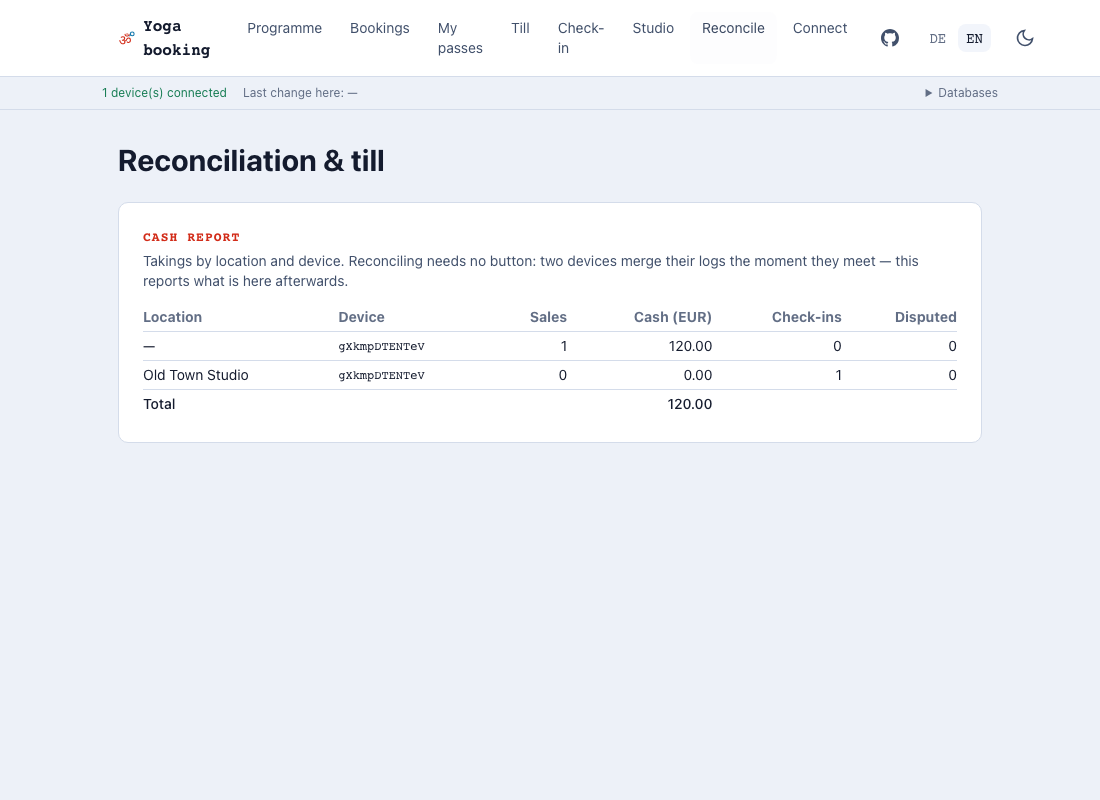
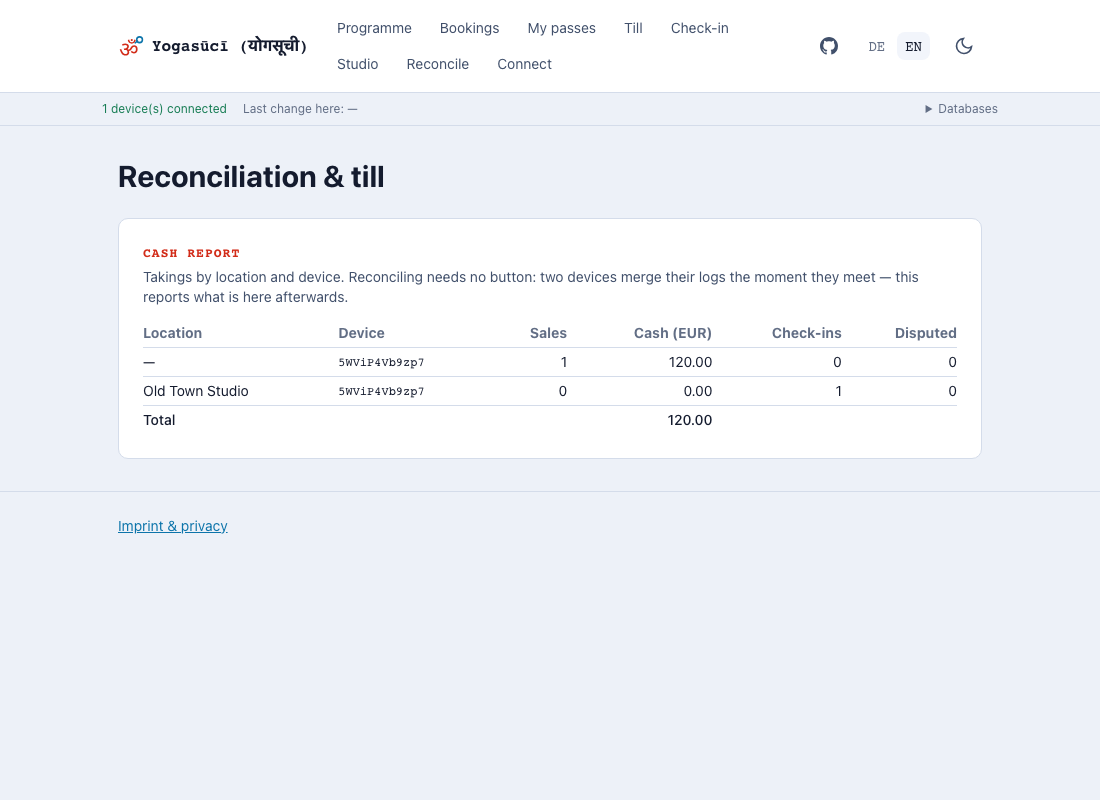
Rename the product to Yogasūcī (योगसूची)
The name people see, everywhere they see it: the app shell, the page title and its
social metadata, the installed app's name, the handbook and its site, the generated
OG image. `yogasuci` without diacritics in technical names, because a name carrying
them through a URL or a command line gets mis-encoded somewhere nobody looks.

The handbook explains it, in both languages: सूची (sūcī) is a needle first and from
there a list, register, index — which is what this app is. The double meaning fits
better than it had to. A needle points at something, and a pass here points at every
entry its balance is counted from; nothing is stored, everything is recounted.

**A large set of identifiers deliberately keeps `yoga-`, and that is the important
part of this change.** Database names (`yoga-tickets-<did>`, `yoga-acl-<did>`,
`yoga-registry`, `yoga-bookings-<did>`), the IndexedDB stores, the localStorage
keys, the export format tag and `window.__yoga` all stay. A ledger's address is
derived from its name — renaming it is not a rename, it is a different database, and
every studio's cash record with it. Renaming the rest would log every device out and
lose its remembered addresses. Written up as LIMITS §1.10 rather than left as
apparently-missed occurrences, with the note that now is the only cheap moment to
change them and that "never" is a defensible answer, because nobody outside
development ever sees them.
[…]

diff --git a/src/app.html b/src/app.html
@@ -54,7 +54,7 @@
 			docs/LIMITS.md: every route serves the same title and canonical, which is
 			why robots.txt keeps the crawler on the landing page.
 		-->
-		<title>Yoga-Buchung — Kursbuchung ohne Server und ohne Konto</title>
+		<title>Yogasūcī (योगसूची) — Kursbuchung ohne Server und ohne Konto</title>
 		<meta
 			name="description"
 			content="Local-first Kursbuchung für Yogastudios: Programm, Karten und Check-in laufen direkt zwischen den Geräten — ohne Server, ohne Konto. Gebaut mit libp2p, OrbitDB und Passkeys."
@@ -64,11 +64,14 @@
 		<meta name="author" content="Le-Space" />
 
 		<meta property="og:type" content="website" />
-		<meta property="og:site_name" content="Yoga-Buchung" />
+		<meta property="og:site_name" content="Yogasūcī (योगसूची)" />
 		<meta property="og:locale" content="de_DE" />
 		<meta property="og:locale:alternate" content="en_GB" />
 		<meta property="og:url" content="https://yoga.le-space.de/" />
-		<meta property="og:title" content="Yoga-Buchung — Kursbuchung ohne Server und ohne Konto" />
+		<meta
+			property="og:title"
+			content="Yogasūcī (योगसूची) — Kursbuchung ohne Server und ohne Konto"
+		/>
 		<meta
 			property="og:description"
 			content="Kurse, Karten und Check-in laufen direkt zwischen den Geräten. Kein Server, kein Relay, kein Konto."
@@ -79,19 +82,22 @@
 		<meta property="og:image:height" content="630" />
 		<meta
 			property="og:image:alt"
-			content="Yoga-Buchung — local-first Peer-to-Peer-Kursbuchung von Le-Space"
+			content="Yogasūcī (योगसूची) — local-first Peer-to-Peer-Kursbuchung von Le-Space"
 		/>
 
 		<meta name="twitter:card" content="summary_large_image" />
-		<meta name="twitter:title" content="Yoga-Buchung — Kursbuchung ohne Server und ohne Konto" />
+		<meta
+			name="twitter:title"
+			content="Yogasūcī (योगसूची) — Kursbuchung ohne Server und ohne Konto"
+		/>
 		<meta
 			name="twitter:description"
 			content="Kurse, Karten und Check-in laufen direkt zwischen den Geräten. Kein Server, kein Relay, kein Konto."
 		/>
 		<meta name="twitter:image" content="https://yoga.le-space.de/og-image.png" />
 
-		<meta name="application-name" content="Yoga-Buchung" />
-		<meta name="apple-mobile-web-app-title" content="Yoga-Buchung" />
+		<meta name="application-name" content="Yogasūcī (योगसूची)" />
+		<meta name="apple-mobile-web-app-title" content="Yogasūcī (योगसूची)" />
 		<meta name="mobile-web-app-capable" content="yes" />
 		<meta name="apple-mobile-web-app-capable" content="yes" />
 		<meta name="apple-mobile-web-app-status-bar-style" content="black-translucent" />

diff --git a/e2e/m0-shell.spec.js b/e2e/m0-shell.spec.js
@@ -107,16 +107,21 @@ test.describe('app shell', () => {
 	// the context rather than assumed. Both directions are checked: a German
 	// browser must not land in English, and an English one must not land in
 	// German just because the studio is German.
+	//
+	// Probed on a navigation label rather than on the app's name. The name used to
+	// serve as the probe and stopped working the moment it became a proper noun —
+	// Yogasūcī is the same word in both languages, so asserting on it proved
+	// nothing at all. A label that genuinely differs is what this test always meant.
 	for (const { locale, expected } of [
-		{ locale: 'de-DE', expected: 'Yoga-Buchung' },
-		{ locale: 'en-GB', expected: 'Yoga booking' }
+		{ locale: 'de-DE', expected: 'Programm' },
+		{ locale: 'en-GB', expected: 'Programme' }
 	]) {
 		test(`follows the browser language ${locale}`, async ({ browser }) => {
 			const context = await browser.newContext({ locale });
 			const page = await context.newPage();
 			await page.goto('/');
 
-			await expect(page.getByTestId('app-name')).toHaveText(expected);
+			await expect(page.getByTestId('nav-program')).toHaveText(expected);
 			await context.close();
 		});
 	}
@@ -126,14 +131,18 @@ test.describe('app shell', () => {
 		const page = await context.newPage();
 
 		await page.goto('/');
-		await expect(page.getByTestId('app-name')).toHaveText('Yoga-Buchung');
+		await expect(page.getByTestId('nav-program')).toHaveText('Programm');
 
 		await page.getByTestId('language-en').click();
-		await expect(page.getByTestId('app-name')).toHaveText('Yoga booking');
+		await expect(page.getByTestId('nav-program')).toHaveText('Programme');
 
 		// An explicit choice must outrank the browser preference, not be reset by it.
 		await page.reload();
-		await expect(page.getByTestId('app-name')).toHaveText('Yoga booking');
+		await expect(page.getByTestId('nav-program')).toHaveText('Programme');
+
+		// And the name is a name: the same in both, which is why it is no longer the
+		// thing this test asks about.
+		await expect(page.getByTestId('app-name')).toContainText('Yogasūcī');
 
 		await context.close();
 	});

diff --git a/docs/LIMITS.md b/docs/LIMITS.md
@@ -469,6 +469,27 @@ Nach upstream noch nicht gemeldet — verwandt mit
 [orbitdb/orbitdb#1255](https://github.com/orbitdb/orbitdb/issues/1255), siehe
 Issue #13 in diesem Repo.
 
+### 1.10 Der Produktname ist umbenannt, die Bezeichner sind es nicht
+
+Sichtbar heißt die App **Yogasūcī (योगसूची)**, technisch `yogasuci`. Eine Reihe von
+Bezeichnern trägt aber weiterhin `yoga-p2p` bzw. `yoga-`, und das ist **Absicht**,
+kein vergessenes Vorkommen:
+
+| Bezeichner                                                                      | Warum er bleibt                                                                                                                  |
+| ------------------------------------------------------------------------------- | -------------------------------------------------------------------------------------------------------------------------------- |
+| `yoga-tickets-<did>`, `yoga-acl-<did>`, `yoga-registry`, `yoga-bookings-<did>`  | **Datenbanknamen.** Die Adresse eines Ledgers wird aus dem Namen abgeleitet (§1.7) — ein anderer Name ist eine andere Datenbank. |
+| `yoga-p2p/blocks`, `yoga-p2p/data`                                              | IndexedDB-Stores. Umbenennen heißt: jedes Gerät startet leer.                                                                    |
+| `yoga-p2p.databases`, `.passkeyCredential`, `.iceMode`, `.installHintDismissed` | localStorage-Schlüssel. Umbenennen heißt: gemerkte Adressen weg, Identität scheinbar verloren.                                   |
+| `yoga-p2p/export/1`                                                             | Format-Kennung im Export. Ältere Sicherungen müssen lesbar bleiben.                                                              |
+| `window.__yoga`                                                                 | Diagnose-Oberfläche, an der die gesamte E2E-Suite hängt.                                                                         |
+
+Ein Umbenennen dieser Namen ist **keine Umbenennung, sondern eine Datenmigration**:
+alte Namen weiter öffnen, Inhalte übertragen, Adressen neu bekanntgeben. Für ein
+Projekt ohne Produktivdaten wäre das machbar; sobald ein Studio damit arbeitet,
+kostet es dessen Kassenbelege. Deshalb ist der Zeitpunkt dafür **jetzt oder nie** —
+und „nie" ist eine vertretbare Wahl, weil diese Namen niemand außer Entwicklern
+je sieht.
+
 ## 3. Gemessen und nicht gemessen
 
 Die Benchmark-Suite steht (`bench/`, `pnpm run bench`, Bericht in

diff --git a/docs-site/docs/roadmap.md b/docs-site/docs/roadmap.md
@@ -9,6 +9,34 @@ Diese Seite ist absichtlich vorsichtig formuliert. Was hier steht, ist geplant o
 angedacht — nicht versprochen. Was die App **heute** kann, steht in den Kapiteln
 davor; was sie nicht kann, unter [Was die App nicht kann](/what-it-cannot-do).
 
+## Einladungslinks statt Code-Schieberei — als Nächstes
+
+**Der wichtigste offene Punkt.** Heute verbindet man zwei Geräte, indem jemand
+einen Code trägt: QR scannen, oder Text kopieren, einfügen, Antwort zurücktragen.
+Ein Feldtest hat gezeigt, woran das scheitert — welches Textfeld, welche Rolle,
+welche von zwei Zeichenketten die richtige ist.
+
+Der Nachfolger ist ein **Einladungslink**. Man erzeugt eine Einladung, teilt sie
+über das normale Teilen-Menü, und das andere Gerät öffnet sie einfach. Die Seite
+prüft die Einladung und erzeugt die Antwort von selbst. Kein Textfeld, keine Rolle,
+keine Verwechslung.
+
+Wichtig für die Privatsphäre, und der Grund, warum das überhaupt vertretbar ist:
+Die Daten stehen im **Fragment** der Adresse — dem Teil hinter dem `#`. Den
+schicken Browser grundsätzlich nicht an einen Server. Der Link sieht aus, als führe
+er irgendwohin; der empfindliche Teil verlässt das Gerät trotzdem nicht.
+
+Der QR-Code bleibt: Er enthält dann den Link. Er wird um knapp 30 Zeichen länger
+und liegt weiterhin deutlich unter dem, was eine Kamera zuverlässig liest.
+
+Mitgeliefert wird außerdem eine Korrektur, die im Studio spürbar ist: Die
+Verbindung gab nach 30 Sekunden auf, obwohl ihr Aufbau länger dauern kann.
+
+Umgesetzt ist das im Beispiel von
+[`libp2p-webrtc-qr` v0.2.0](https://github.com/NiKrause/libp2p-webrtc-qr/releases/tag/v0.2.0);
+was es für diese App bedeutet, steht in
+[Issue #23](https://github.com/Le-Space/yoga-p2p/issues/23).
+
 ## Sicherung auf dezentralem Speicher
 
 Heute liegt eure Sicherung dort, wo ihr sie hinlegt: Der **Export** lädt eine Datei

diff --git a/docs-site/i18n/en/docusaurus-plugin-content-docs/current/roadmap.md b/docs-site/i18n/en/docusaurus-plugin-content-docs/current/roadmap.md
@@ -10,6 +10,33 @@ considered — not promised. What the app can do **today** is in the chapters be
 it; what it cannot do is under [What the app cannot
 do](/what-it-cannot-do).
 
+## Invite links instead of carrying codes — next
+
+**The most important open item.** Today two devices are connected by somebody
+carrying a code: scan a QR, or copy text, paste it, carry the answer back. A field
+test showed where that falls apart — which text field, which role, which of two
+strings is the right one.
+
+The successor is an **invite link**. You create an invite, share it through the
+ordinary share sheet, and the other device simply opens it. The page verifies the
+invite and produces the reply by itself. No text field, no role, nothing to mix up.
+
+The part that matters for privacy, and the reason this is defensible at all: the
+data sits in the **fragment** of the address — everything after the `#`. Browsers
+do not send that to a server, as a rule. The link looks like it leads somewhere;
+the sensitive part still never leaves the device.
+
+The QR code stays: it then carries the link. It grows by roughly thirty characters
+and remains well below what a camera reads reliably.
+
+It also brings a correction a studio will feel: the connection used to give up
+after thirty seconds, although setting one up can take longer.
+
+Built in the example of
+[`libp2p-webrtc-qr` v0.2.0](https://github.com/NiKrause/libp2p-webrtc-qr/releases/tag/v0.2.0);
+what it means for this app is in
+[issue #23](https://github.com/Le-Space/yoga-p2p/issues/23).
+
 ## Backup on decentralised storage
 
 Today your backup lives wherever you put it: **Export** downloads a file, and where

diff --git a/docs-site/docs/index.md b/docs-site/docs/index.md
@@ -4,7 +4,7 @@ title: Handbuch
 sidebar_position: 1
 ---
 
-# Yoga-P2P
+# Yogasūcī (योगसूची)
 
 Kursbuchung, Karten und Check-in für ein Yogastudio mit mehreren Standorten —
 ohne Server, ohne Konto, ohne monatliche Gebühr.
@@ -40,6 +40,28 @@ mit beiden Belegen. Mehr dazu unter [Was die App nicht
 kann](/what-it-cannot-do).
 
 ![Die Startseite](/img/screens/de/start.png)
+
+## Woher der Name kommt
+
+**Yogasūcī** ist Sanskrit, geschrieben योगसूची — zusammengesetzt aus _yoga_ und
+_sūcī_.
+
+सूची (sūcī) heißt zunächst **Nadel**, und daraus abgeleitet **Liste**,
+**Verzeichnis**, **Index**. Im heutigen Hindi ist सूची schlicht die Liste. Genau das
+ist diese App: ein Verzeichnis von Kursen, Karten und Besuchen — kein Konto, kein
+Portal, sondern ein geführtes Register.
+
+Die Doppelbedeutung passt besser, als sie es müsste. Eine Nadel zeigt auf etwas;
+eine Karte in dieser App zeigt auf jeden einzelnen Eintrag, aus dem ihr Guthaben
+gerechnet wird. Nichts ist gespeichert, alles ist nachgezählt.
+
+Die Striche über ū und ī sind keine Verzierung: Sie markieren lange Vokale in der
+üblichen wissenschaftlichen Umschrift (IAST). Gesprochen etwa _Yoga-ßuutschii_.
+
+In technischen Namen — Hostnamen, Verzeichnisse, Paketnamen — steht schlicht
+`yogasuci`, ohne Striche und ohne Devanagari. Nicht aus Bequemlichkeit: Ein Name,
+der in einer URL oder auf einer Kommandozeile diakritische Zeichen trägt, wird
+irgendwo falsch kodiert, und das an einer Stelle, an der niemand es sofort merkt.
 
 ## Was ihr seht, hängt vom Gerät ab
 

diff --git a/docs-site/i18n/en/docusaurus-plugin-content-docs/current/index.md b/docs-site/i18n/en/docusaurus-plugin-content-docs/current/index.md
@@ -4,7 +4,7 @@ title: Handbook
 sidebar_position: 1
 ---
 
-# Yoga-P2P
+# Yogasūcī (योगसूची)
 
 Class booking, passes and check-in for a yoga studio with more than one location —
 no server, no account, no monthly fee.
@@ -37,6 +37,27 @@ the same time, a pass can be redeemed twice. The app does not prevent that — i
 [What the app cannot do](/what-it-cannot-do).
 
 ![The front page](/img/screens/en/start.png)
+
+## Where the name comes from
+
+**Yogasūcī** is Sanskrit, written योगसूची — _yoga_ and _sūcī_ joined.
+
+सूची (sūcī) means **needle** first, and from there **list**, **register**,
+**index**. In present-day Hindi सूची is simply a list. Which is what this app is: a
+register of classes, passes and visits — not an account, not a portal, but a set of
+books somebody keeps.
+
+The double meaning fits better than it had to. A needle points at something; a pass
+in this app points at every single entry its balance is counted from. Nothing is
+stored, everything is recounted.
+
+The marks over ū and ī are not decoration: they mark long vowels in the standard
+scholarly transliteration (IAST). Roughly _yoga-SOO-chee_.
+
+In technical names — hostnames, directories, package names — it is plain
+`yogasuci`, without the marks and without Devanagari. Not out of convenience: a name
+carrying diacritics through a URL or a command line gets mis-encoded somewhere, and
+in a place where nobody notices at once.
 
 ## What you see depends on the device
 
